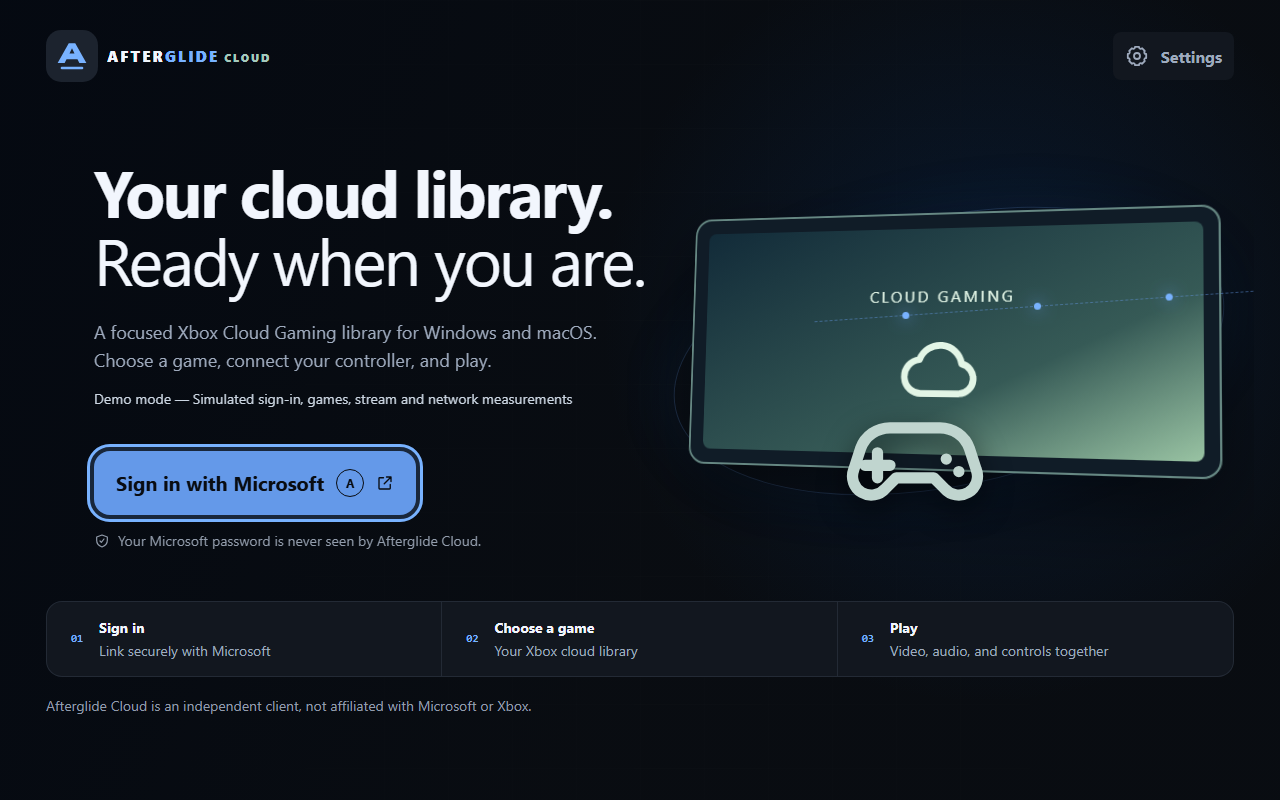
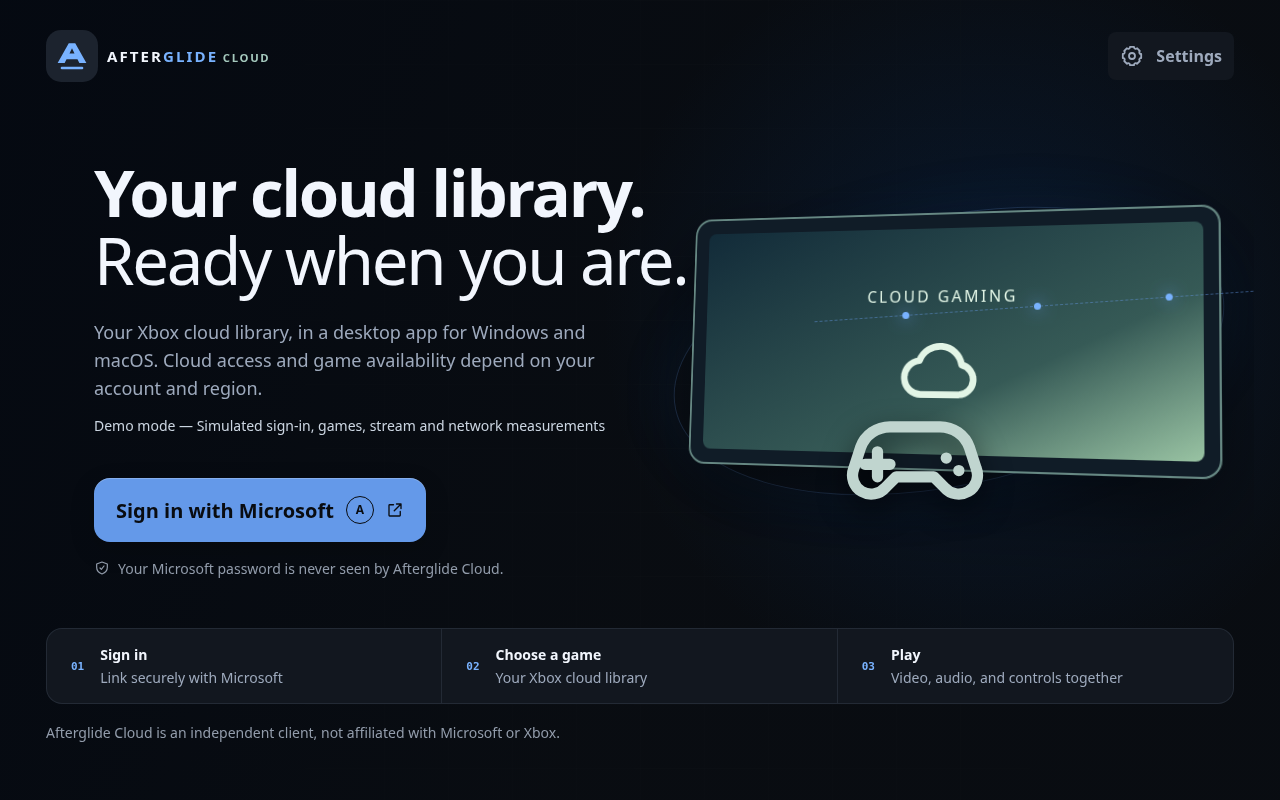
Refresh welcome capture and clarify Mac launch steps

diff --git a/apps/cloud/docs/images/README.md b/apps/cloud/docs/images/README.md
@@ -1,14 +1,22 @@
 # Cloud overview captures
 
-These are unaltered PNG captures of the actual Cloud Electron app on Windows,
-at 1280×800. The app ran hidden/offscreen through existing deterministic E2E
+These are unaltered PNG captures of the actual Cloud Electron app at 1280×800.
+The Library and controls captures are from Windows; the refreshed welcome is
+from this Linux cloud environment. The app ran hidden/offscreen through existing deterministic E2E
 fixtures, with separate temporary data and no Microsoft credentials or Xbox
 connection. Each selected image visibly labels demo/simulated data.
 
-Capture source: `aeb9d9e3bc1d5fdfe7f058284abe2bfd4b804127` (2026-10-15).
+Library and controls capture source: `aeb9d9e3bc1d5fdfe7f058284abe2bfd4b804127` (2026-10-15).
 Subsequent PR #40 changes concern the packaging guard and have no UI/runtime
 source changes. Electron 43.7.7, Node 24.14.0. No pixel editing or compositing was
 performed. These images do not establish Mac rendering or live streaming.
+
+The welcome capture was refreshed on 2026-10-15 from source
+`3c28ab12775b20a9131bf3767c0b686530117ba5` using the same first-sign-in
+journey, Electron 43.7.7 and Node 24.19.0 under Xvfb on Linux. It shows the
+account/region eligibility copy. It was inspected before inclusion, with no
+pixel editing or compositing. The existing Windows Library and controls
+captures are preserved.
 
 | File                | Existing journey                                                   | What it shows                                                    |
 | ------------------- | ------------------------------------------------------------------ | ---------------------------------------------------------------- |

diff --git a/apps/cloud/docs/INSTALL.md b/apps/cloud/docs/INSTALL.md
@@ -34,7 +34,7 @@ On Mac, use native Node for your architecture and install dependencies on that
 Mac. Do not copy `node_modules` or credential stores between machines. See
 [Mac setup](MAC-TESTING.md) if you need help with the development environment.
 
-To look around without a Microsoft login or subscription, close the app and run:
+To look around without a Microsoft login or subscription, quit the app and run:
 
 ```sh
 npm run start:demo
@@ -56,7 +56,8 @@ changed bytes; they do not establish publisher trust or installation safety.
 | Apple Silicon Mac | `Afterglide-Cloud-<version>-mac-arm64.dmg` | **Afterglide Cloud** from Applications |
 
 The Windows installer offers a per-user directory chooser and Start shortcut.
-On Mac, the DMG presents the app and an Applications shortcut. If Windows or
+On Mac, open the DMG and drag the app onto the Applications shortcut, then
+launch it from Applications. If Windows or
 macOS blocks a candidate, stop and use the source route or report it through
 [support](../SUPPORT.md); do not bypass OS protections. Developer ID signing,
 notarization and clean-machine installation remain pending. Intel Mac execution
